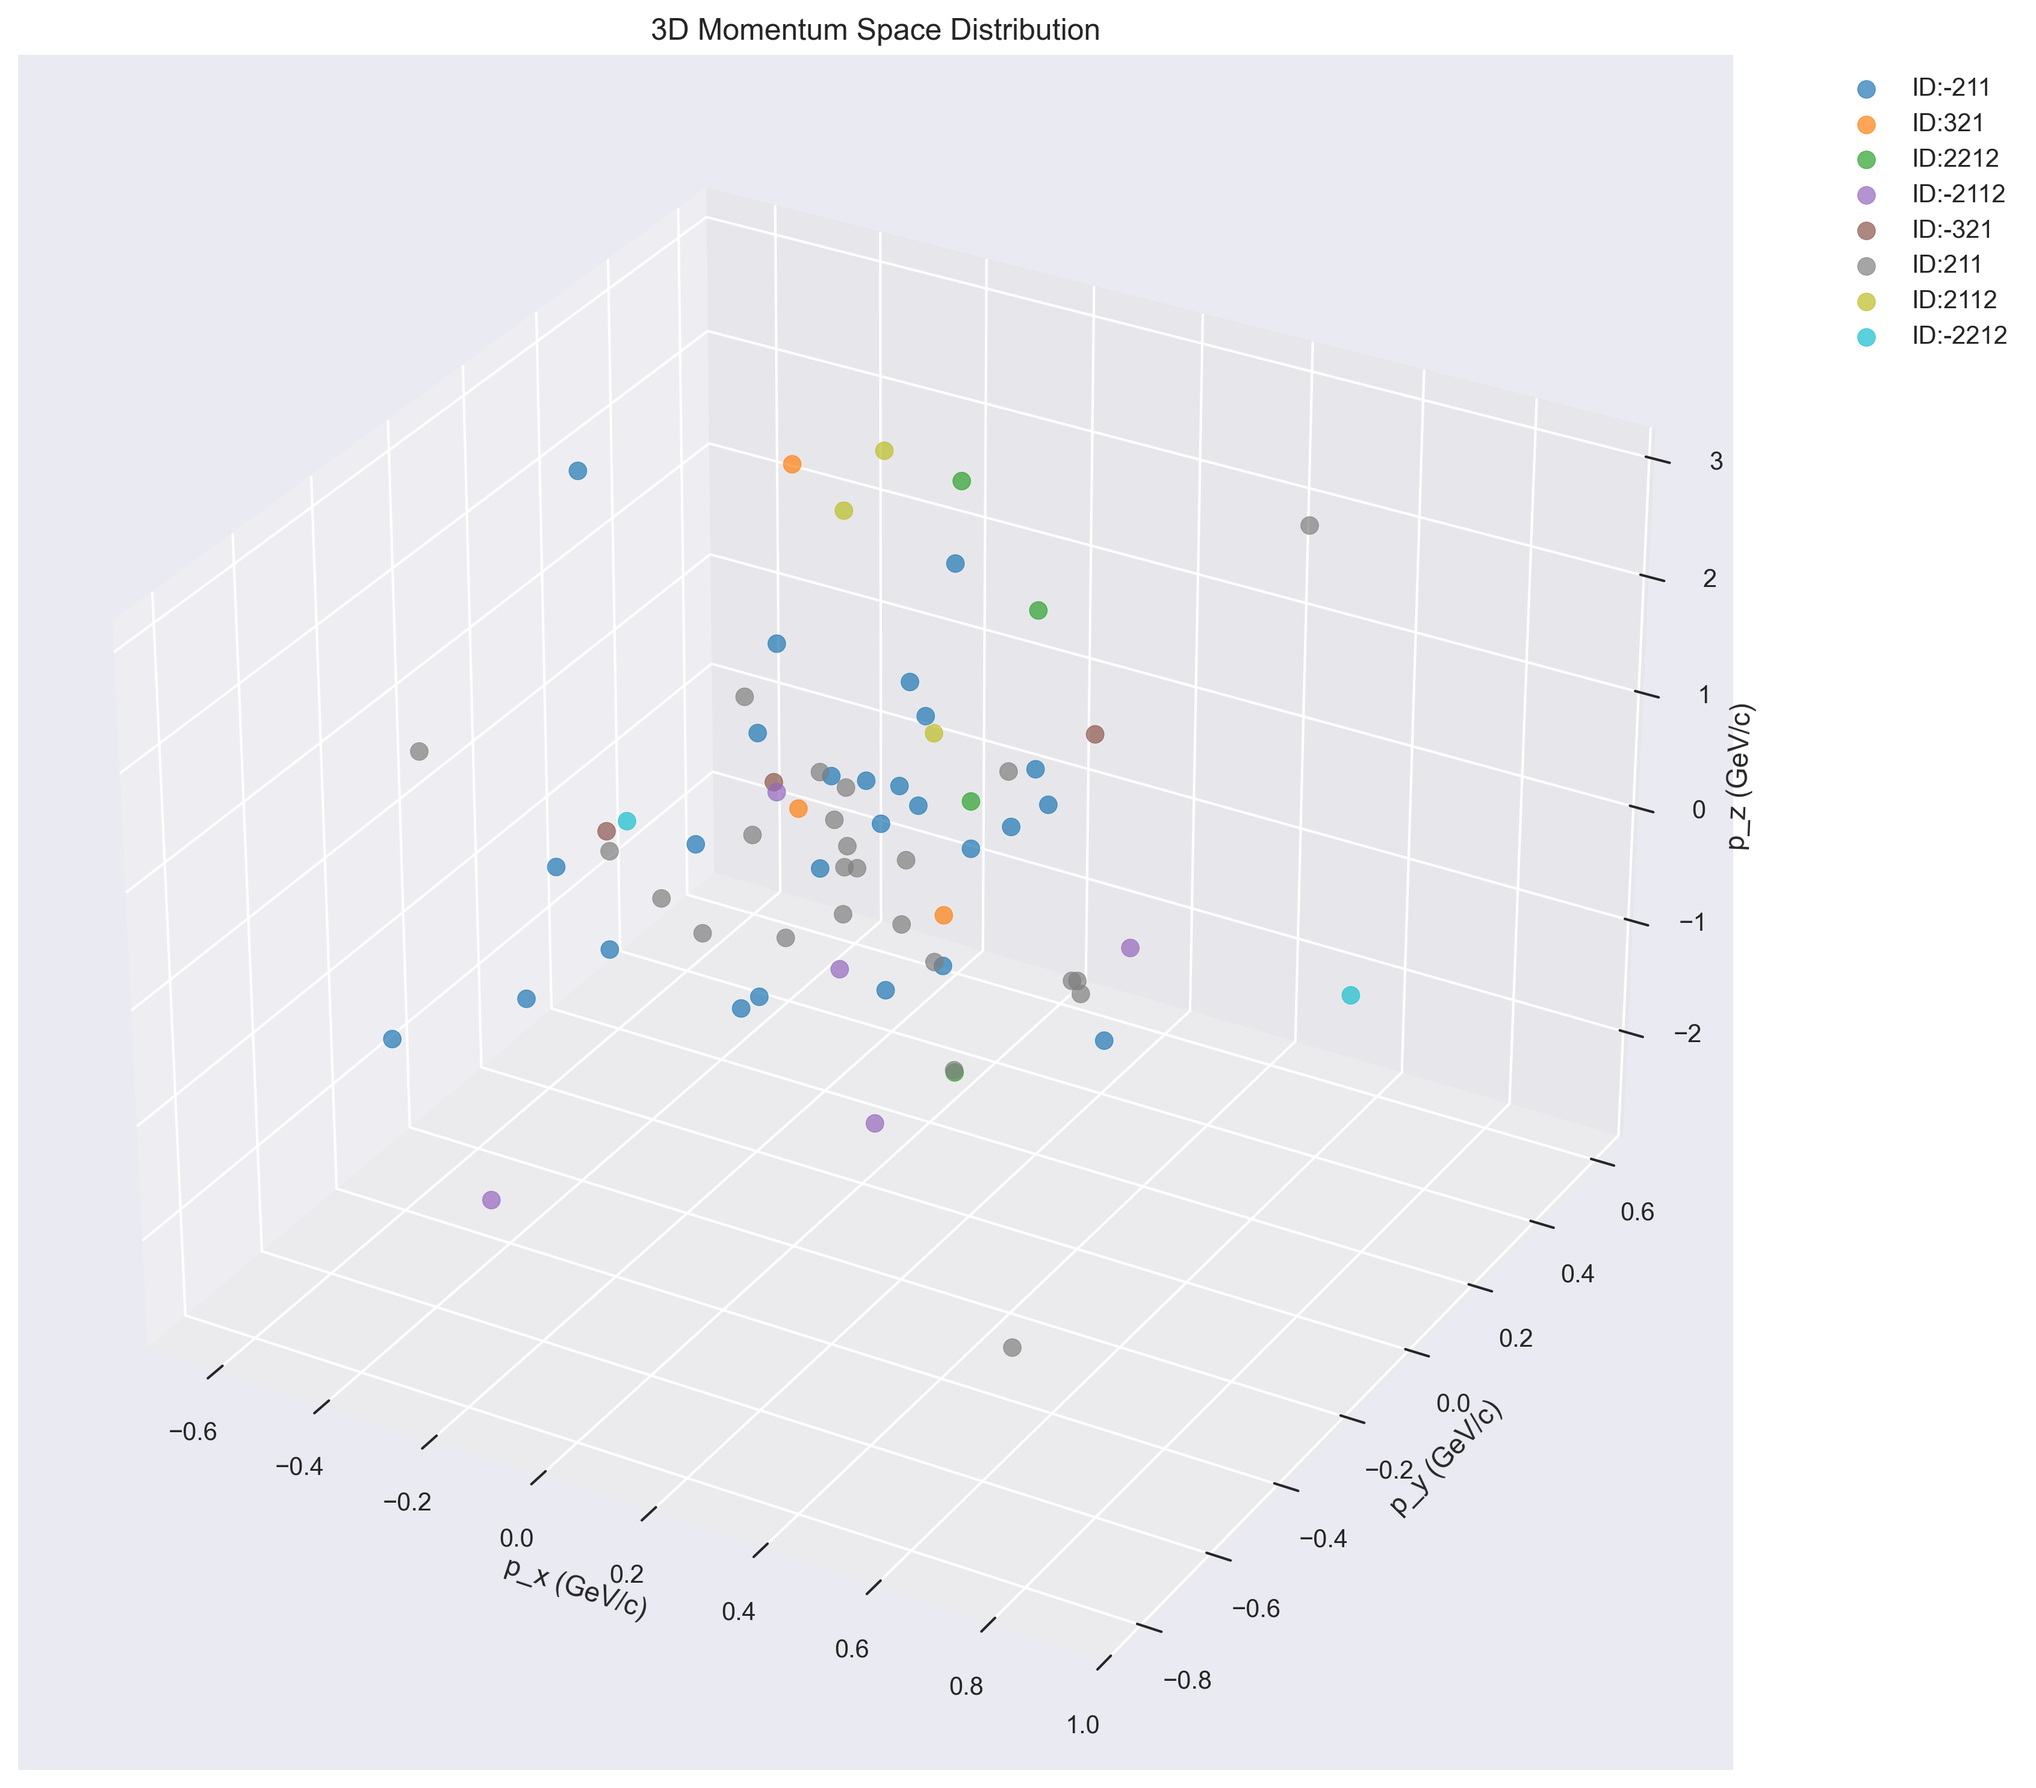
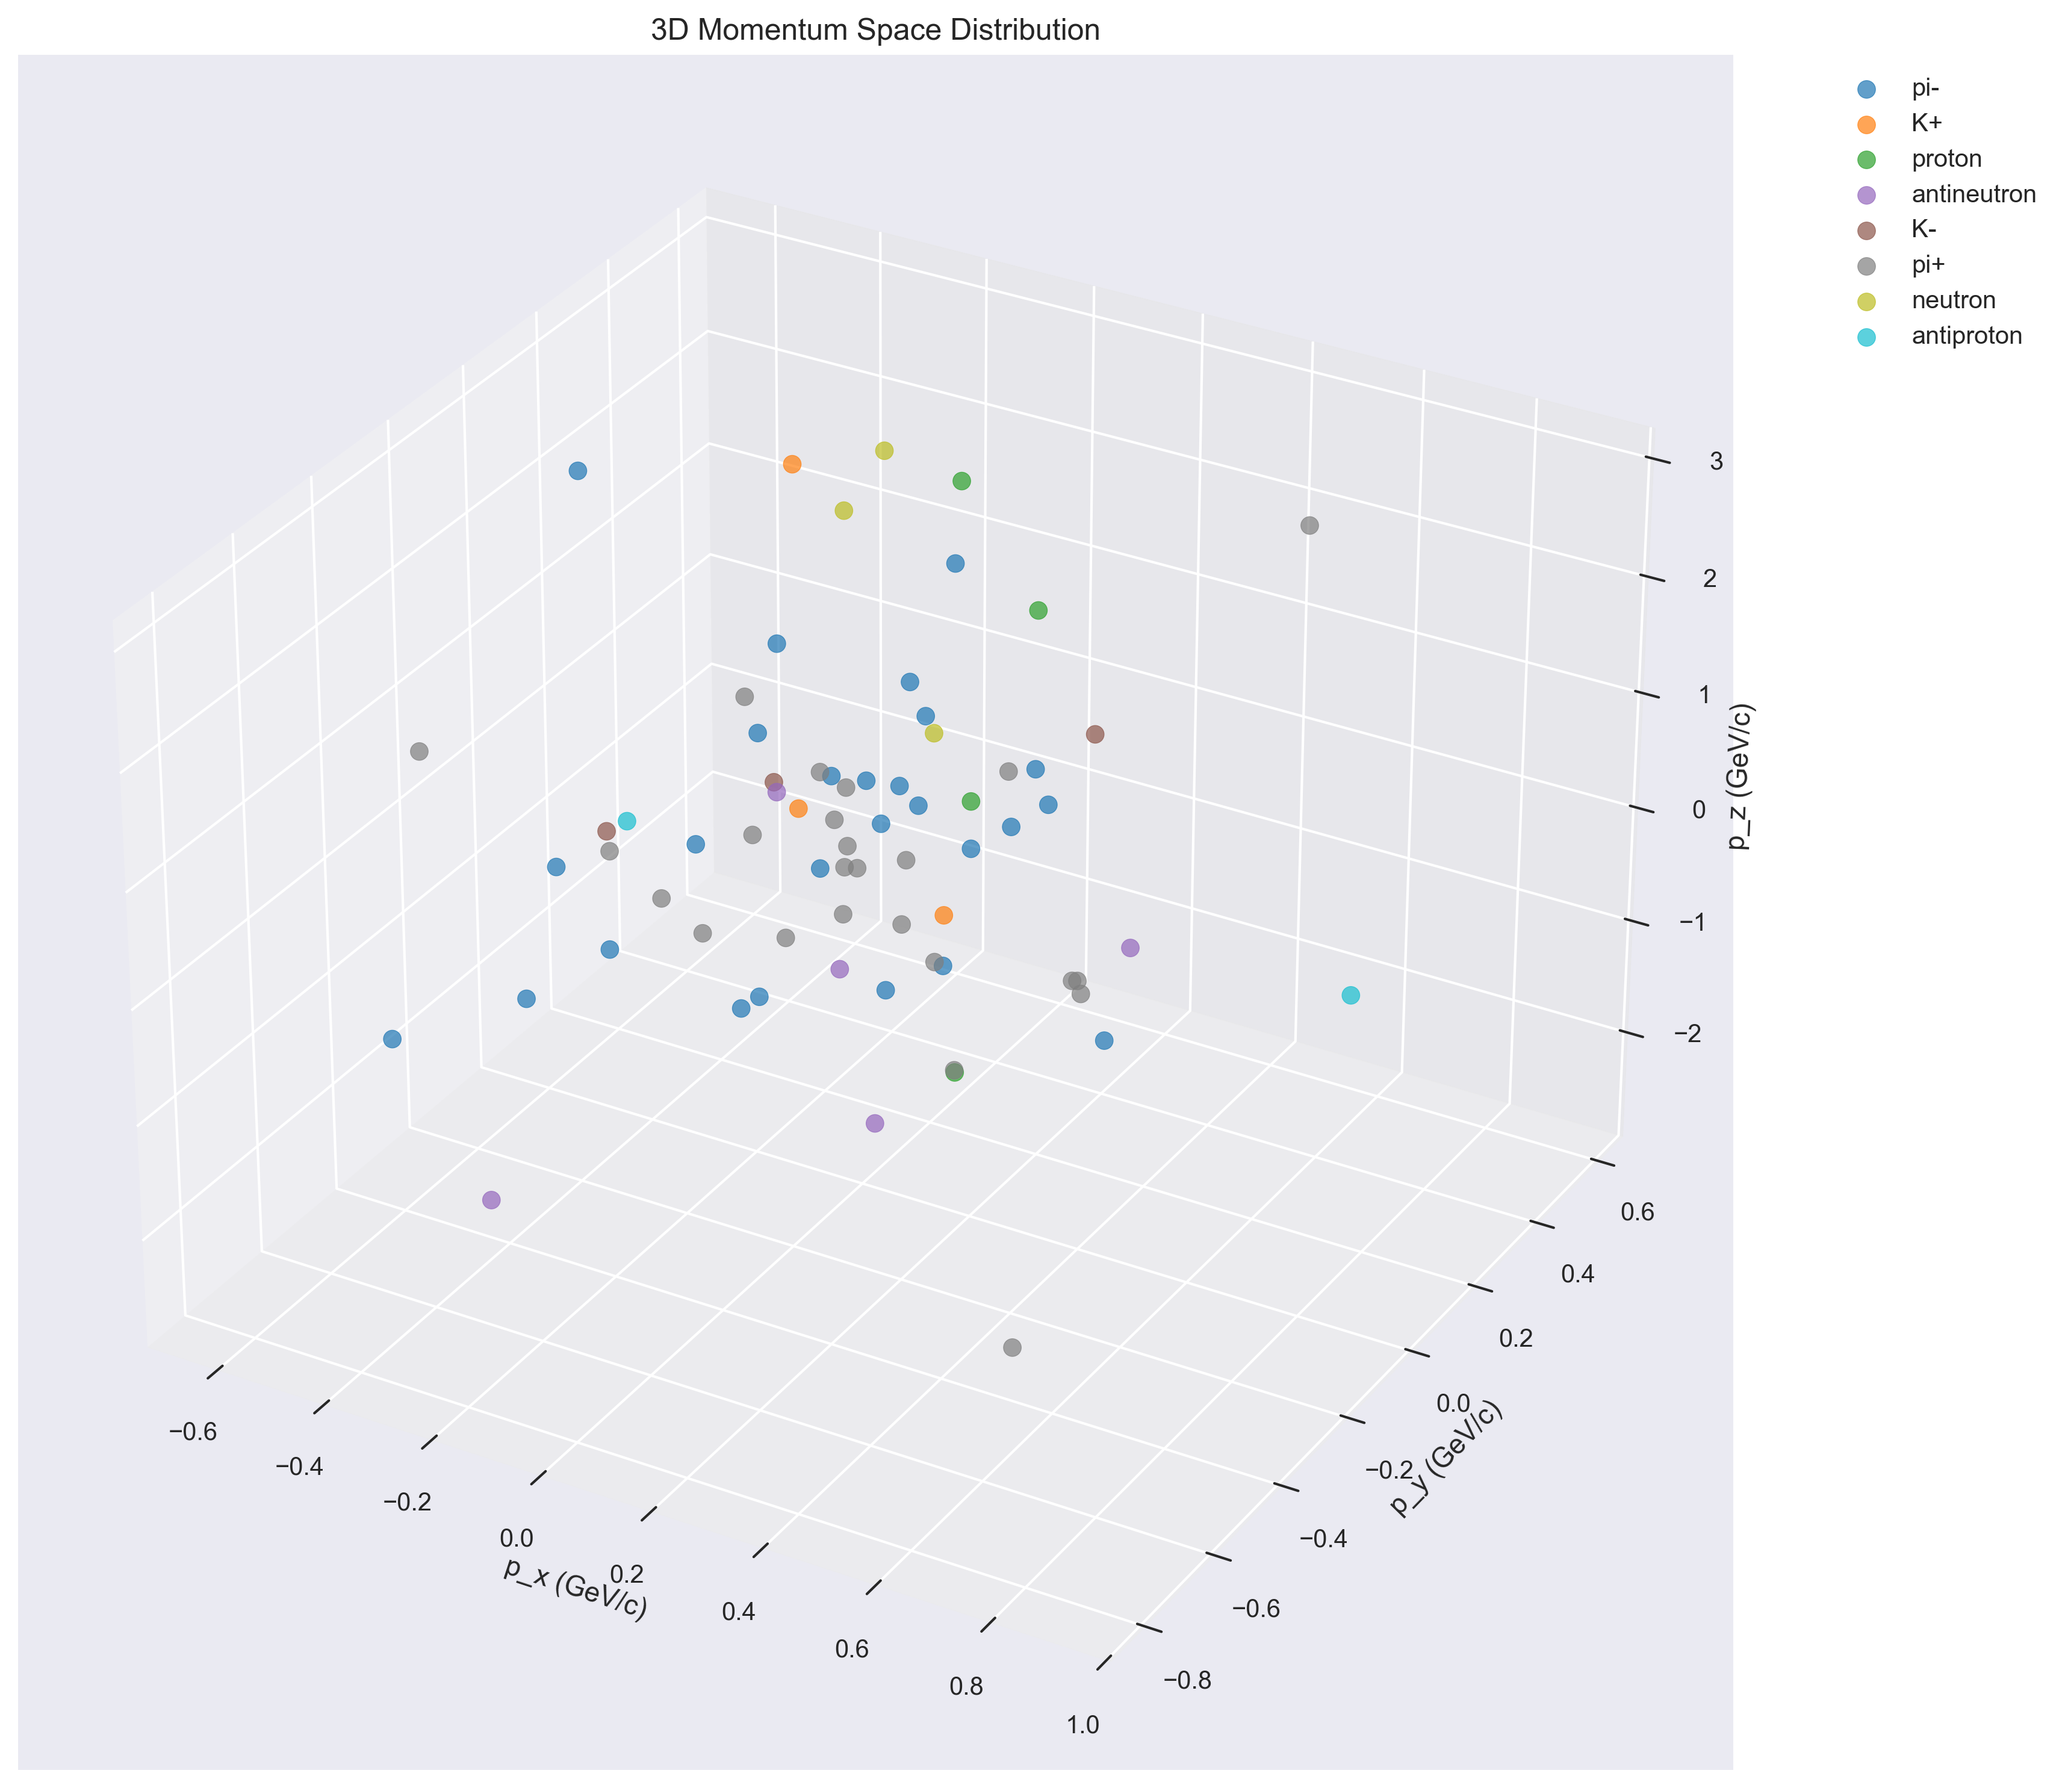
changed labels for particle ids

diff --git a/comprehensive_analysis.py b/comprehensive_analysis.py
@@ -168,9 +168,9 @@ def create_particle_type_analysis(df, plots_dir):
 
     # Particle type labels
     particle_labels = {
-        211: 'π⁺', -211: 'π⁻', 321: 'K⁺', -321: 'K⁻',
-        130: 'K_L⁰', 2212: 'p⁺', -2212: 'p̄⁻',
-        2112: 'n⁰', -2112: 'n̄⁰'
+        211: 'pi+', -211: 'pi-', 321: 'K+', -321: 'K-',
+        130: 'K0', 2212: 'proton', -2212: 'antiproton',
+        2112: 'neutron', -2112: 'antineutron'
     }
 
     # Plot 1: Particle type distribution (pie chart)
@@ -209,12 +209,19 @@ def create_particle_type_analysis(df, plots_dir):
 
 def create_3d_momentum_visualization(df, plots_dir):
     """
-    Create 3D momentum space visualization.
+    Create 3D momentum space visualization with particle names.
     """
     fig = plt.figure(figsize=(12, 10))
 
     # Create 3D subplot
     ax = fig.add_subplot(111, projection='3d')
+
+    # Particle name mapping
+    particle_labels = {
+        211: 'pi+', -211: 'pi-', 321: 'K+', -321: 'K-',
+        130: 'K0', 2212: 'proton', -2212: 'antiproton',
+        2112: 'neutron', -2112: 'antineutron'
+    }
 
     # Color by particle type
     particle_ids = df['Particle_ID'].unique()
@@ -226,8 +233,9 @@ def create_3d_momentum_visualization(df, plots_dir):
         mask = df['Particle_ID'] == pid
         particle_data = df[mask]
         color = id_to_color[pid]
+        particle_name = particle_labels.get(pid, f'ID:{pid}')
         ax.scatter(particle_data['px'], particle_data['py'], particle_data['pz'],
-                  c=[color], label=f'ID:{pid}', alpha=0.7, s=50)
+                  c=[color], label=particle_name, alpha=0.7, s=50)
 
     ax.set_xlabel('p_x (GeV/c)')
     ax.set_ylabel('p_y (GeV/c)')
@@ -241,6 +249,9 @@ def create_3d_momentum_visualization(df, plots_dir):
     fig.savefig(f'{plots_dir}/momentum_3d_visualization.png', dpi=300, bbox_inches='tight')
     plt.close(fig)
     print(f"✓ Saved 3D momentum visualization to {plots_dir}/momentum_3d_visualization.png")
+
+    # Return the figure for interactive display
+    return fig
 
 def create_correlation_matrix(df, plots_dir):
     """
@@ -295,9 +306,9 @@ def print_statistics(df):
     print(f"\nPARTICLE TYPE BREAKDOWN:")
     particle_counts = df['Particle_ID'].value_counts()
     particle_labels = {
-        211: 'π⁺', -211: 'π⁻', 321: 'K⁺', -321: 'K⁻',
-        130: 'K_L⁰', 2212: 'p⁺', -2212: 'p̄⁻',
-        2112: 'n⁰', -2112: 'n̄⁰'
+        211: 'pi+', -211: 'pi-', 321: 'K+', -321: 'K-',
+        130: 'K0', 2212: 'proton', -2212: 'antiproton',
+        2112: 'neutron', -2112: 'antineutron'
     }
 
     for pid, count in particle_counts.items():
